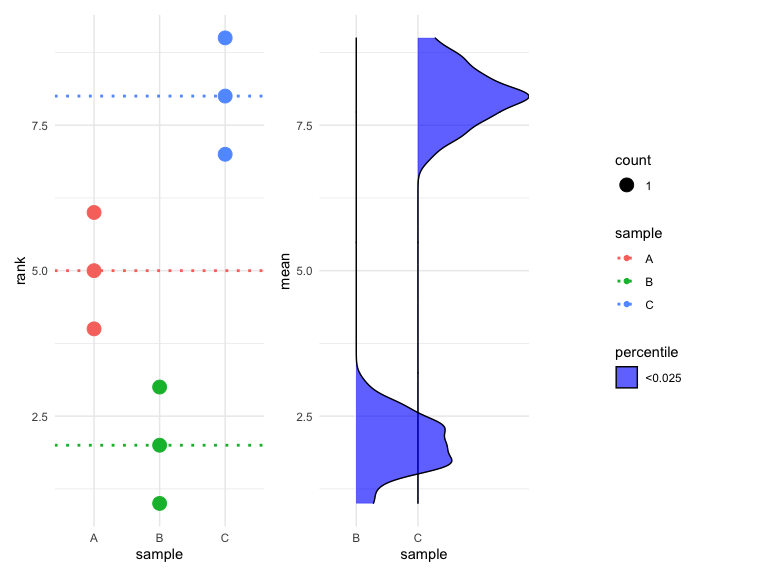
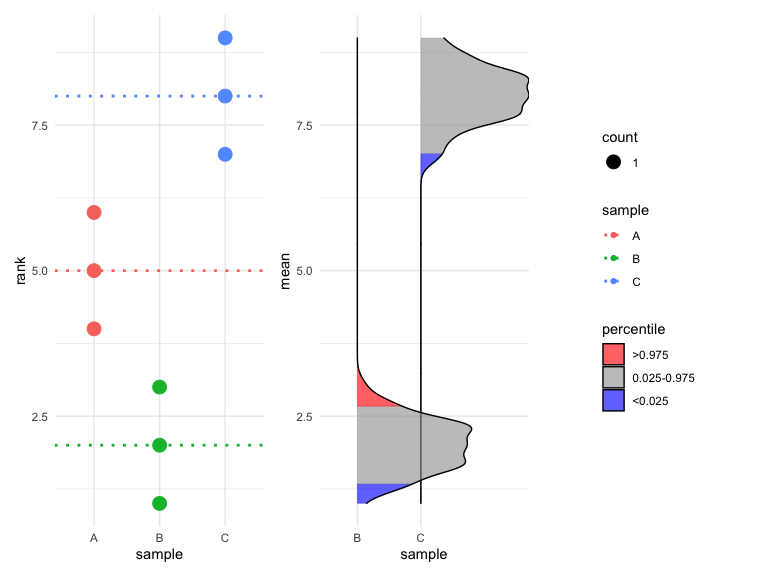
update for changes in ggridges
syntax change in ggplot/ggridge was causing weirdness in plots. code updated

Changed region(s): [[0.4375, 0.0625, 0.6875, 0.875], [0.7812, 0.2188, 0.875, 0.5312], [0.7812, 0.5625, 0.9062, 0.7188]]

diff --git a/Readme.md b/Readme.md
@@ -1,11 +1,11 @@
 besthr - Generating Bootstrap Estimation Distributions of HR Data
 ================
 Dan MacLean
-15 September, 2022
+06 October, 2022
 
 <!-- badges: start -->
 [![DOI](https://zenodo.org/badge/DOI/10.5281/zenodo.3374507.svg)](https://doi.org/10.5281/zenodo.3374507)
-
+[![R-CMD-check](https://github.com/TeamMacLean/besthr/workflows/R-CMD-check/badge.svg)](https://github.com/TeamMacLean/besthr/actions)
 <!-- badges: end -->
 
 ## Synopsis
@@ -82,13 +82,11 @@ hr_est_1
     ## =========================================================
     ## 
     ## Control: A
-
-    ## Warning: Extra arguments ignored.
-
+    ## 
     ## Unpaired mean rank difference of A (14.9, n=10) minus B (6.1, n=10)
     ##  8.8
     ## Confidence Intervals (0.025, 0.975)
-    ##  3.97375, 8.25
+    ##  4.16625, 7.82625
     ## 
     ## 100 bootstrap resamples.
 
@@ -96,21 +94,7 @@ hr_est_1
 plot(hr_est_1)
 ```
 
-    ## Warning: Prefixing `UQ()` with the rlang namespace is deprecated as of rlang 0.3.0.
-    ## Please use the non-prefixed form or `!!` instead.
-    ## 
-    ##   # Bad:
-    ##   rlang::expr(mean(rlang::UQ(var) * 100))
-    ## 
-    ##   # Ok:
-    ##   rlang::expr(mean(UQ(var) * 100))
-    ## 
-    ##   # Good:
-    ##   rlang::expr(mean(!!var * 100))
-    ## 
-    ## This warning is displayed once per session.
-
-    ## Picking joint bandwidth of 0.451
+    ## Picking joint bandwidth of 0.376
 
 ![](Readme_files/figure-gfm/unnamed-chunk-2-1.png)<!-- -->
 
@@ -124,7 +108,7 @@ estimate(hr_data_1, score, group, control = "B" ) %>%
   plot()
 ```
 
-    ## Picking joint bandwidth of 0.384
+    ## Picking joint bandwidth of 0.383
 
 ![](Readme_files/figure-gfm/unnamed-chunk-3-1.png)<!-- -->
 
@@ -137,7 +121,7 @@ estimate(hr_data_1, score, group, control = "A", nits = 1000, low = 0.4, high = 
   plot()
 ```
 
-    ## Picking joint bandwidth of 0.253
+    ## Picking joint bandwidth of 0.261
 
 ![](Readme_files/figure-gfm/unnamed-chunk-4-1.png)<!-- -->
 
@@ -186,13 +170,11 @@ hr_est_3
     ## =========================================================
     ## 
     ## Control: A
-
-    ## Warning: Extra arguments ignored.
-
+    ## 
     ## Unpaired mean rank difference of A (5, n=3) minus B (2, n=3)
     ##  3
     ## Confidence Intervals (0.025, 0.975)
-    ##  1, 2.84166666666666
+    ##  1.33333333333333, 2.66666666666667
     ## 
     ## Unpaired mean rank difference of A (5, n=3) minus C (8, n=3)
     ##  -3
@@ -205,7 +187,7 @@ hr_est_3
 plot(hr_est_3)
 ```
 
-    ## Picking joint bandwidth of 0.169
+    ## Picking joint bandwidth of 0.163
 
 ![](Readme_files/figure-gfm/unnamed-chunk-5-1.png)<!-- -->
 
@@ -221,7 +203,7 @@ hr_est_3 %>%
   plot(which = "just_data")
 ```
 
-    ## Picking joint bandwidth of 0.169
+    ## Picking joint bandwidth of 0.163
 
 ![](Readme_files/figure-gfm/unnamed-chunk-6-1.png)<!-- -->
 
@@ -248,7 +230,7 @@ p + plot_annotation(title = 'A stylish besthr plot',
                     caption = 'Though this example is not meaningful')
 ```
 
-    ## Picking joint bandwidth of 0.451
+    ## Picking joint bandwidth of 0.376
 
 ![](Readme_files/figure-gfm/unnamed-chunk-7-1.png)<!-- -->
 
@@ -256,7 +238,7 @@ p + plot_annotation(title = 'A stylish besthr plot',
 p
 ```
 
-    ## Picking joint bandwidth of 0.451
+    ## Picking joint bandwidth of 0.376
 
 ![](Readme_files/figure-gfm/unnamed-chunk-7-2.png)<!-- -->
 
@@ -276,7 +258,7 @@ p[[1]] <- p[[1]] + theme(axis.title.y = element_text(family = "Times", colour="b
 p
 ```
 
-    ## Picking joint bandwidth of 0.451
+    ## Picking joint bandwidth of 0.376
 
 ![](Readme_files/figure-gfm/unnamed-chunk-8-1.png)<!-- -->
 
@@ -295,7 +277,7 @@ p[[1]] <- p[[1]] + scale_colour_manual(values = c("blue", "#440000"))
 p
 ```
 
-    ## Picking joint bandwidth of 0.451
+    ## Picking joint bandwidth of 0.376
 
 ![](Readme_files/figure-gfm/unnamed-chunk-9-1.png)<!-- -->
 
@@ -310,7 +292,7 @@ p[[1]] <- p[[1]] + scale_colour_viridis_d()
 p
 ```
 
-    ## Picking joint bandwidth of 0.451
+    ## Picking joint bandwidth of 0.376
 
 ![](Readme_files/figure-gfm/unnamed-chunk-9-2.png)<!-- -->
 
@@ -325,7 +307,7 @@ p[[1]] <- p[[1]] + scale_colour_brewer(type="qual", palette="Accent")
 p
 ```
 
-    ## Picking joint bandwidth of 0.451
+    ## Picking joint bandwidth of 0.376
 
 ![](Readme_files/figure-gfm/unnamed-chunk-9-3.png)<!-- -->
 
@@ -348,6 +330,6 @@ p[[2]] <- p[[2]] + scale_fill_manual(
 p
 ```
 
-    ## Picking joint bandwidth of 0.451
+    ## Picking joint bandwidth of 0.376
 
 ![](Readme_files/figure-gfm/unnamed-chunk-10-1.png)<!-- -->
